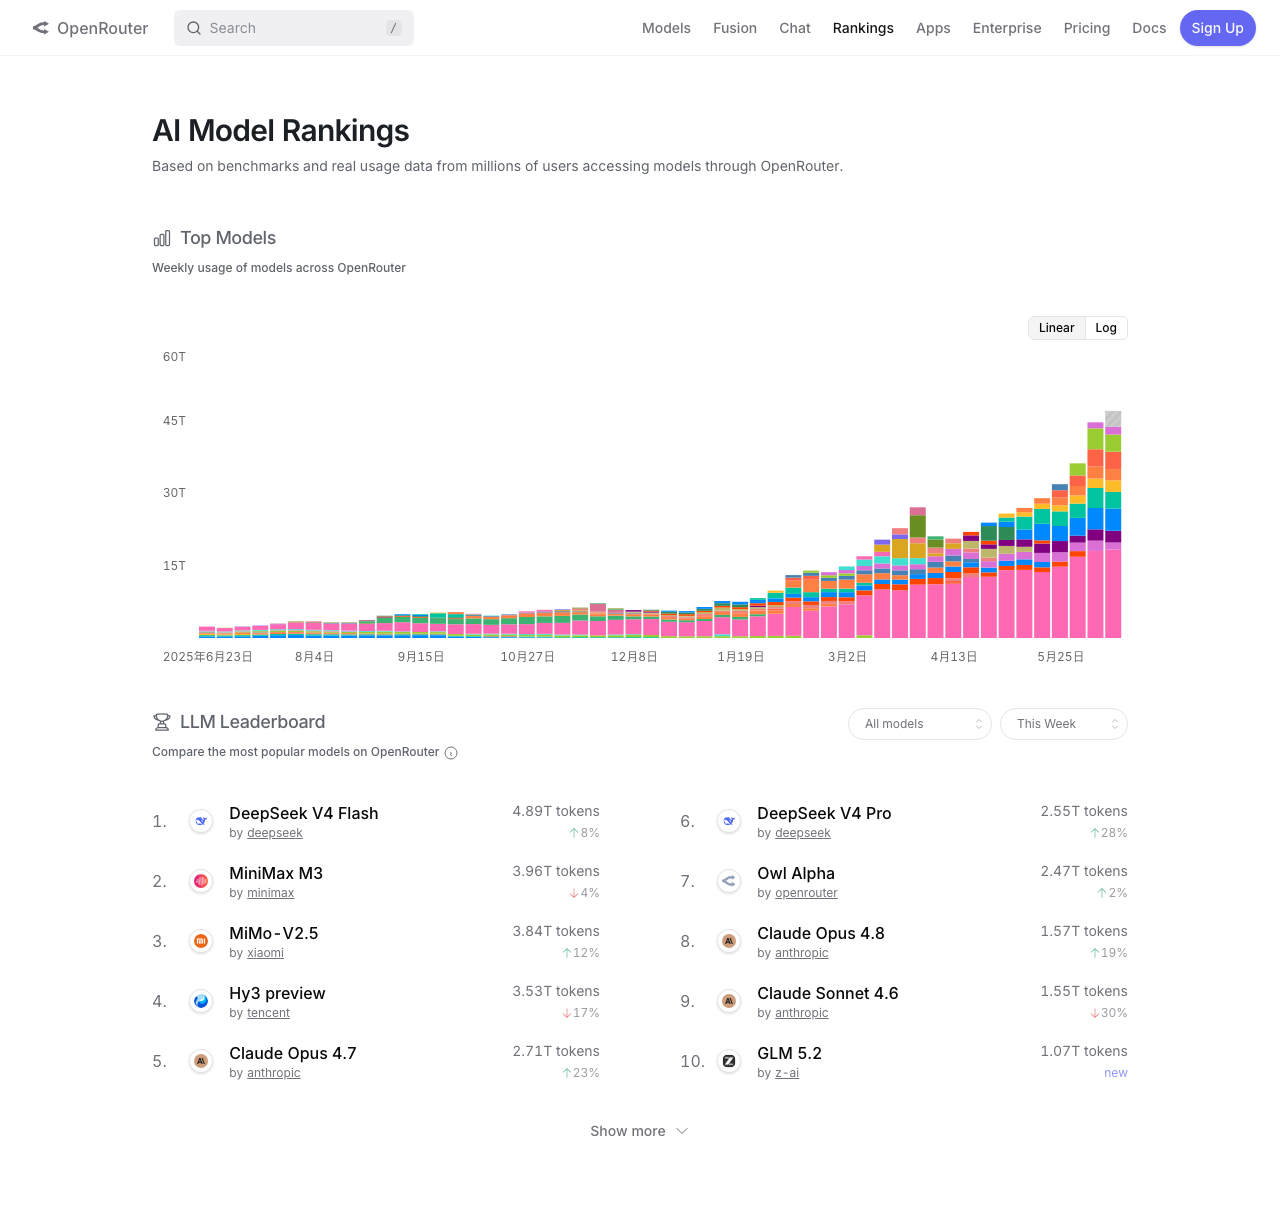
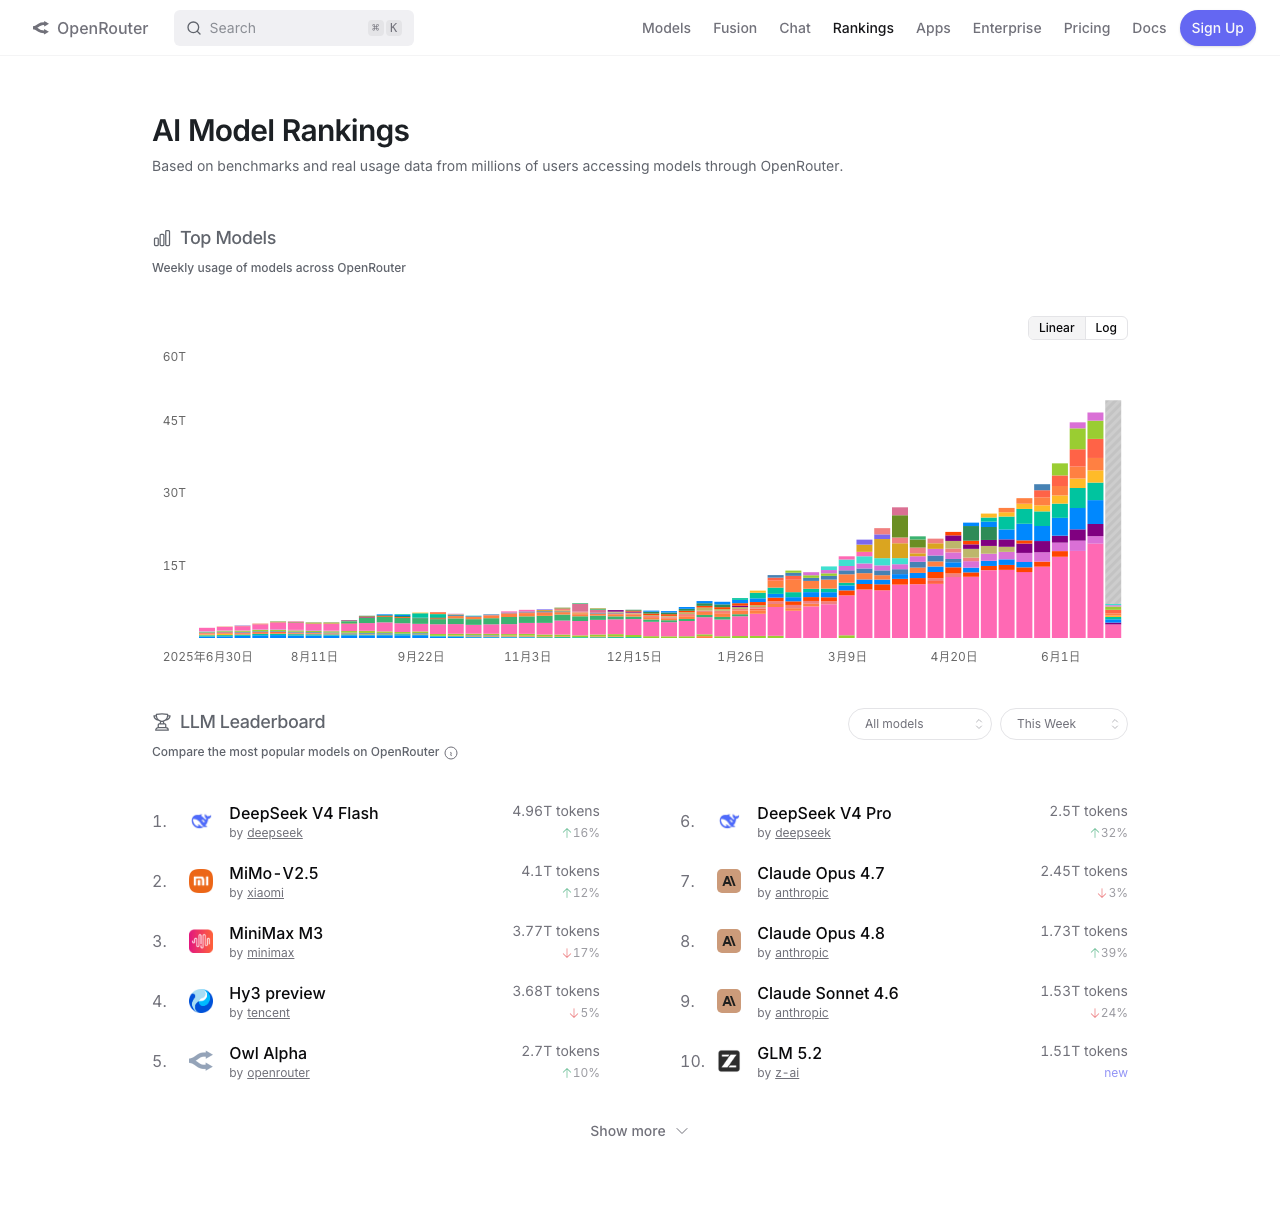
Update OpenRouter snapshot 2026-06-23T00:48:15Z

diff --git a/latest.md b/latest.md
@@ -1,6 +1,6 @@
 # OpenRouter Rankings Snapshot
 
-Generated at: 2026-06-21T14:00:56Z
+Generated at: 2026-06-23T00:48:15Z
 
 Source: https://openrouter.ai/rankings
 